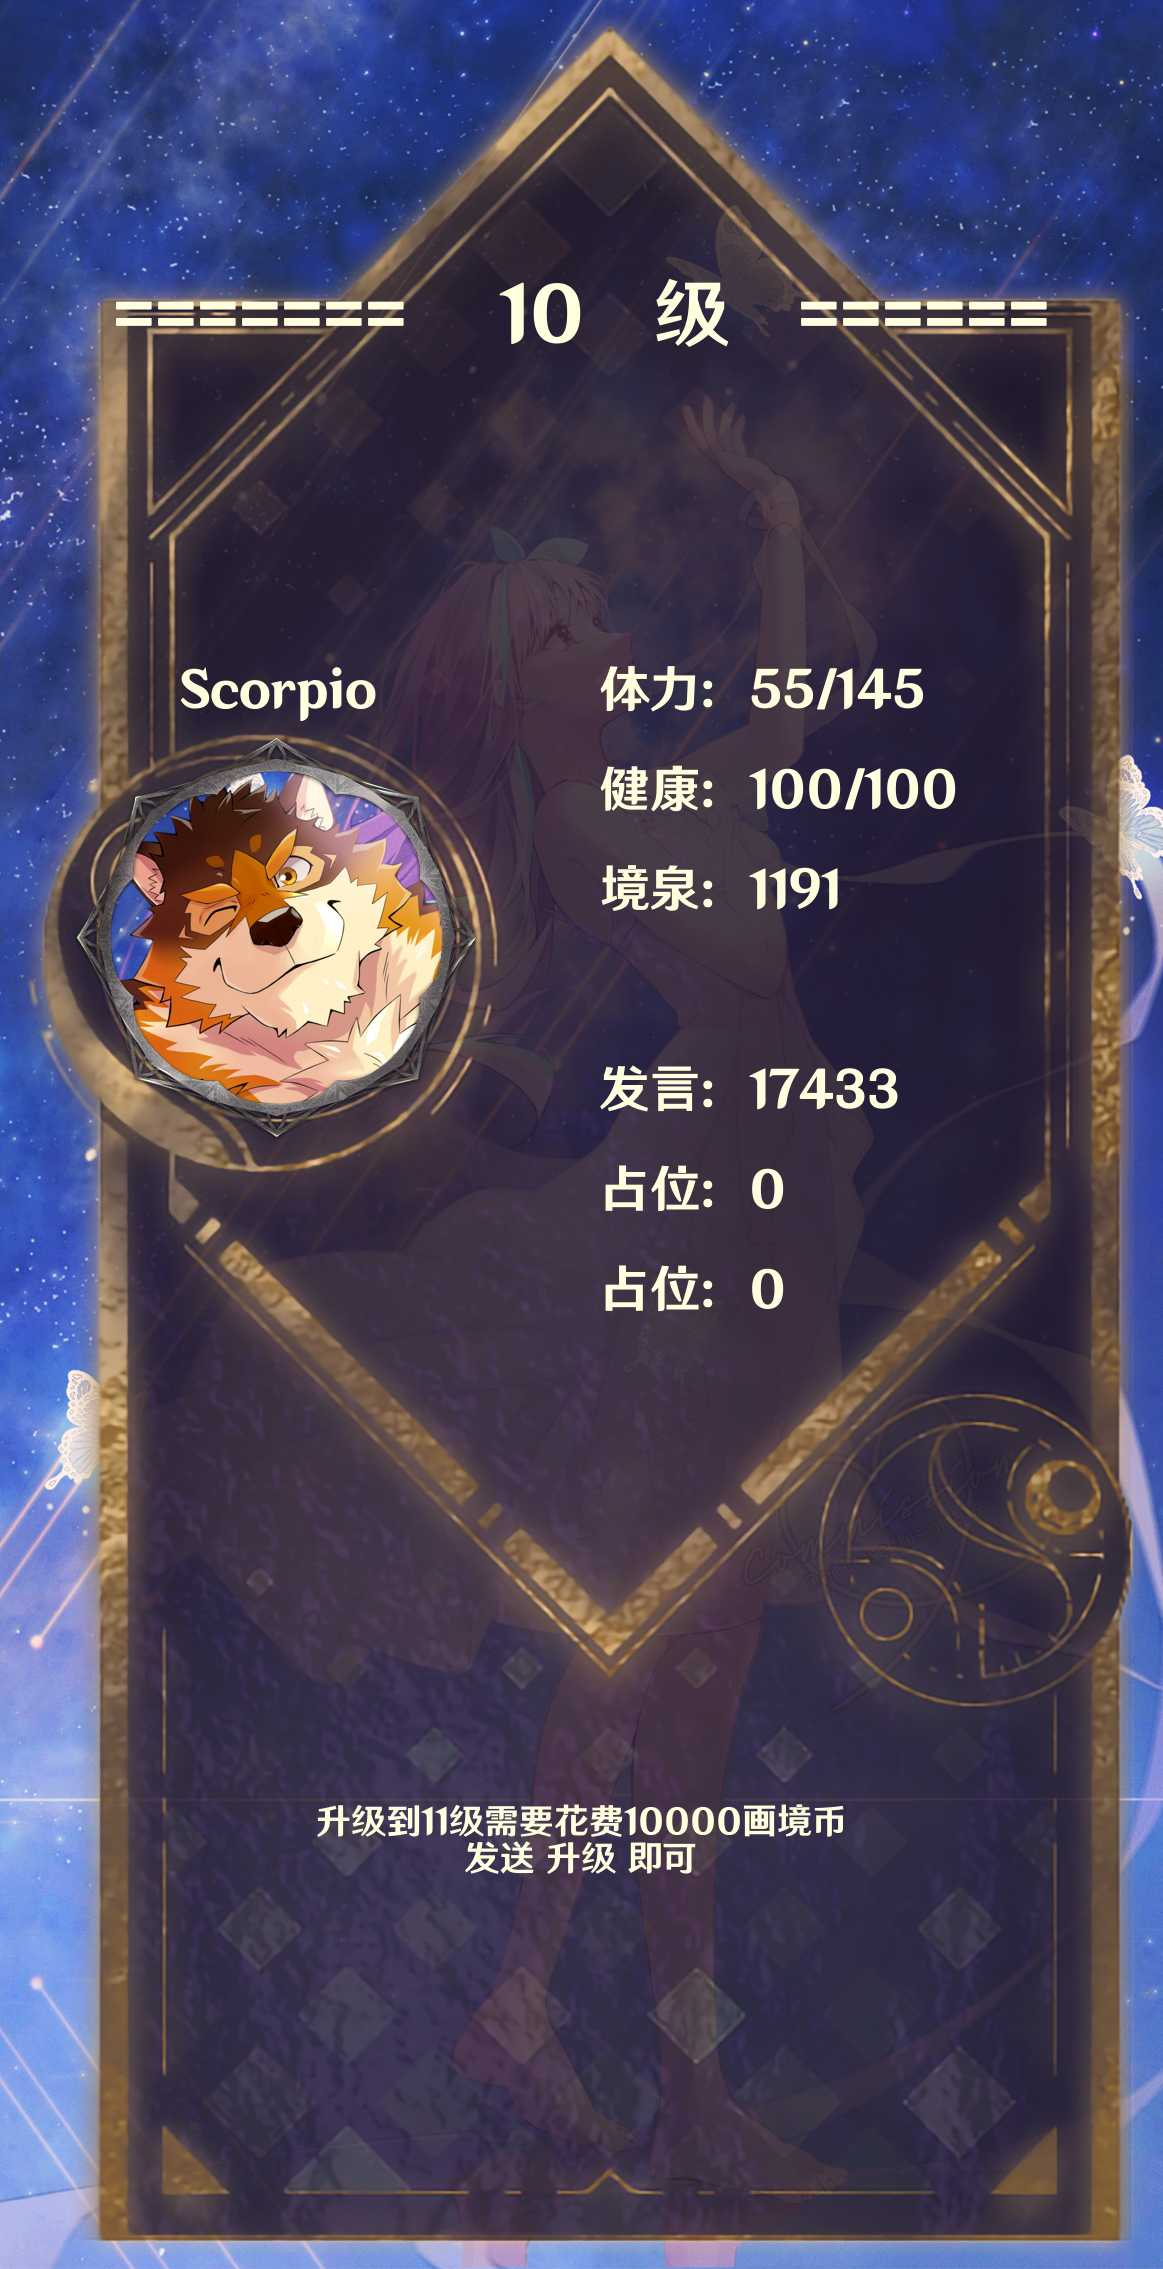
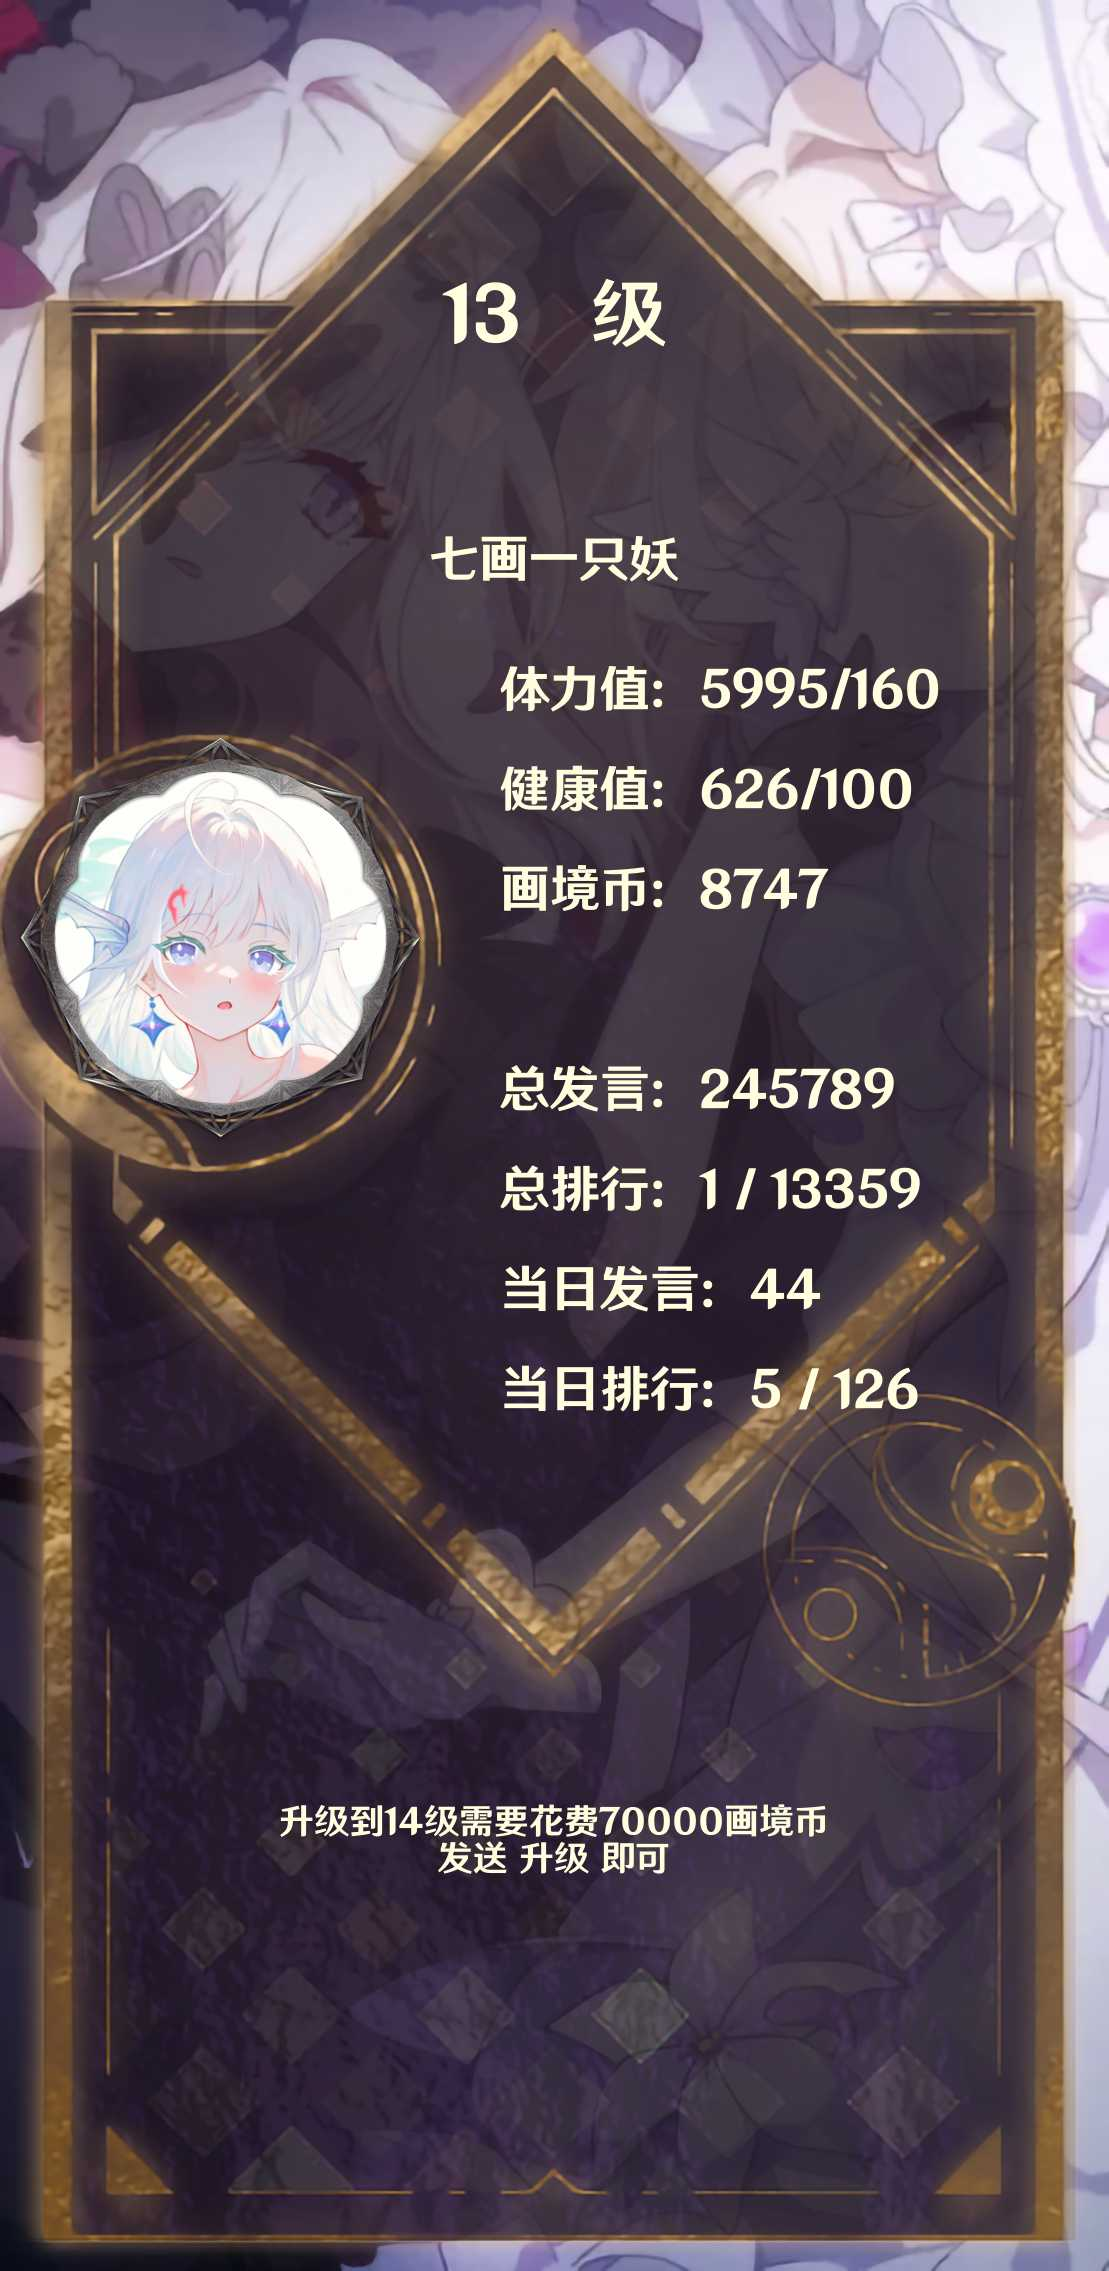
统计新增每日发言以及对应的个人信息查询，修复万象抽卡没反应问题

diff --git a/Twip/function/show_speak_rank/db.py b/Twip/function/show_speak_rank/db.py
@@ -2,11 +2,12 @@
 Author: 七画一只妖
 Date: 2022-03-01 20:27:54
 LastEditors: 七画一只妖 1157529280@qq.com
-LastEditTime: 2023-08-29 14:09:10
+LastEditTime: 2023-09-22 19:53:28
 Description: file content
 '''
 
 import base64
+import datetime
 from io import BytesIO
 import time
 from Twip import DB_URL, DB_CARD, DB_PASS, DB_LIB, TTF_PATH
@@ -34,6 +35,7 @@ def find_speak_rank() -> list:
     cursor = db.cursor()
     cursor.execute(sql)
     results = cursor.fetchall()
+    db.close()
     return results
 
 
@@ -64,7 +66,7 @@ def data_to_image(data,type:str) -> str:
     bg = Image.new("RGB",(650,5000), (255,255,255))
     dr = ImageDraw.Draw(bg)
     font = ImageFont.truetype(f"{FILE_PATH}\\consola-1.ttf", 20)
-    dr.text((10,100), text=text1, font=font, fill="#000000")
+    dr.text((10,200), text=text1, font=font, fill="#000000")
     ################################################
     text2 = ""
     rank = 1
@@ -81,10 +83,72 @@ def data_to_image(data,type:str) -> str:
         rank += 1
     dr = ImageDraw.Draw(bg)
     font = ImageFont.truetype(TTF_PATH, 19)
-    dr.text((275,100), text=text2, font=font, fill="#000000")
+    dr.text((275,200), text=text2, font=font, fill="#000000")
     ################################################
     text3 = f"当前时间：{now_time}\n\n"
     text4 = f"统计时长：{time_difference}\n\n"
+    dr = ImageDraw.Draw(bg)
+    font = ImageFont.truetype(TTF_PATH, 19)
+    # 将text3和text4居中
+    text_width3 = font.getsize(text=text3)
+    text_width4 = font.getsize(text=text4)
+    text_width5 = font.getsize(text="By  Twip  七画一只妖")
+    
+    dr.text(((650-text_width3[0])/2,20), text=text3, font=font, fill="#000000")
+    dr.text(((650-text_width4[0])/2,20+text_width3[1]), text=text4, font=font, fill="#000000")
+    dr.text(((650-text_width5[0])/2,20+text_width3[1]+text_width4[1]), text="By  Twip  七画一只妖", font=font, fill="#000000")
+
+    font = ImageFont.truetype(TTF_PATH, 40)
+    text_width6 = font.getsize(text="发 言 总 排 行 榜")
+    dr.text(((650-text_width6[0])/2,40+text_width3[1]+text_width4[1]+text_width5[1]), text="发 言 总 排 行 榜", font=font, fill="#000000")
+
+    # bg.show()
+    return img_to_b64(bg)
+
+
+# 获取当日发言排名
+def get_speak_rank_today(type:str):
+    now_time = datetime.datetime.now().strftime('%Y-%m-%d')
+    db = MySQLdb.connect(DB_URL, DB_CARD, DB_PASS, DB_LIB, charset='utf8')
+    sql = f"select * from t_bot_listener_speaklog where speak_time='{now_time}' order by speak_count desc limit 0,99;"
+    cursor = db.cursor()
+    cursor.execute(sql)
+    data = cursor.fetchall()
+    db.close()
+
+    ################################################
+    text1 = ""
+    rank = 1
+    for item in data:
+        # user_item = f"【{str(rank)}】{item[0]}({item[1]})的发言次数是：{item[4]}\n\n"
+        # 对齐
+        user_item = f"[{str(rank):>2}] ===> {item[4]:>6}   |\n\n"
+        text1 += user_item
+        rank += 1
+    bg = Image.new("RGB",(650,5000), (255,255,255))
+    dr = ImageDraw.Draw(bg)
+    font = ImageFont.truetype(f"{FILE_PATH}\\consola-1.ttf", 20)
+    dr.text((10,200), text=text1, font=font, fill="#000000")
+    ################################################
+    text2 = ""
+    rank = 1
+    for item in data:
+        # user_item = f"【{str(rank)}】{item[0]}({item[1]})的发言次数是：{item[4]}\n\n"
+        # 对齐
+        # item[1]是一个字符串，将这个字符串的开头两个字符和结尾两个字符换成*号
+        if type == "admin":
+            user_item = f"{item[2]} ( {item[1]} ) \n\n"
+        else:
+            user_item = f"{item[2]} ( {item[1][:4]}{'*'*(len(item[1])-4)} ) \n\n"
+        # user_item = f"{item[0]} ( {item[1]} ) \n\n"
+        text2 += user_item
+        rank += 1
+    dr = ImageDraw.Draw(bg)
+    font = ImageFont.truetype(TTF_PATH, 19)
+    dr.text((275,200), text=text2, font=font, fill="#000000")
+    ################################################
+    text3 = f"当前时间：{now_time}\n\n"
+    text4 = f"统计时长：今天0点到目前为止\n\n"
     dr = ImageDraw.Draw(bg)
     font = ImageFont.truetype(TTF_PATH, 19)
     # 将text3和text4居中
@@ -95,8 +159,13 @@ def data_to_image(data,type:str) -> str:
     dr.text(((650-text_width4[0])/2,20+text_width3[1]), text=text4, font=font, fill="#000000")
     dr.text(((650-text_width5[0])/2,20+text_width3[1]+text_width4[1]), text="By  Twip  七画一只妖", font=font, fill="#000000")
 
+    font = ImageFont.truetype(TTF_PATH, 40)
+    text_width6 = font.getsize(text="当 日 发 言 排 行 榜")
+    dr.text(((650-text_width6[0])/2,40+text_width3[1]+text_width4[1]+text_width5[1]), text="当 日 发 言 排 行 榜", font=font, fill="#000000")
+
     # bg.show()
     return img_to_b64(bg)
+    
 
 
 def img_to_b64(pic: Image.Image) -> str:

diff --git a/Twip/user/user_info/payload/image_dao.py b/Twip/user/user_info/payload/image_dao.py
@@ -2,7 +2,7 @@
 Author: 七画一只妖 1157529280@qq.com
 Date: 2023-09-08 21:27:33
 LastEditors: 七画一只妖 1157529280@qq.com
-LastEditTime: 2023-09-09 14:27:25
+LastEditTime: 2023-09-22 20:40:08
 FilePath: \074个人信息卡片\payload\image_dao.py
 Description: 这是默认设置,请设置`customMade`, 打开koroFileHeader查看配置 进行设置: https://github.com/OBKoro1/koro1FileHeader/wiki/%E9%85%8D%E7%BD%AE
 '''
@@ -14,6 +14,7 @@ LastEditTime: 2023-09-08 21:31:07
 FilePath: \074个人信息卡片\image_dao.py
 Description: 这是默认设置,请设置`customMade`, 打开koroFileHeader查看配置 进行设置: https://github.com/OBKoro1/koro1FileHeader/wiki/%E9%85%8D%E7%BD%AE
 '''
+import datetime
 import random
 import httpx
 from PIL import Image
@@ -21,6 +22,7 @@ from pathlib import Path
 BASE_PATH: str = Path(__file__).absolute().parents[0]
 
 from .image_factory import picture_paste_img, circle, write_longsh, FontEntity
+from .db import sql_dml, sql_dql
 
 from tool.find_power.user_database import get_user_info_new, insert_user_info_new, change_user_crime, change_coin_max, get_user_info_old
 
@@ -68,14 +70,17 @@ async def get_card(user_id: str, user_name: str) -> str:
     f_a.setSize(75).setColor("#FFFFE0")
     resp1 = write_longsh(f_a, img2, f"{level:<5}级", "C", (270, 0))
 
-    resp2 = write_longsh(f_a.setSize(50), resp1, f"{user_name}", "L", (180, 660))
+    resp2 = write_longsh(f_a.setSize(50), resp1, f"{user_name}", "C", (530, 480))
 
-    resp2 = write_longsh(f_a, resp1, f"体力值： {user_data[1]}/{user_data[4]}", "L", (550, 660))
-    resp2 = write_longsh(f_a, resp1, f"健康值： {user_data[2]}/100", "L", (550, 760))
-    resp2 = write_longsh(f_a, resp1, f"画境币： {user_data[3]}", "L", (550, 860))
-    resp2 = write_longsh(f_a, resp1, f"发言数： {user_data_old[4]}", "L", (550, 1060))
-    resp2 = write_longsh(f_a, resp1, f"占位符： 0", "L", (550, 1160))
-    resp2 = write_longsh(f_a, resp1, f"占位符： 0", "L", (550, 1260))
+    resp2 = write_longsh(f_a, resp1, f"体力值： {user_data[1]}/{user_data[4]}", "L", (500, 660))
+    resp2 = write_longsh(f_a, resp1, f"健康值： {user_data[2]}/100", "L", (500, 760))
+    resp2 = write_longsh(f_a, resp1, f"画境币： {user_data[3]}", "L", (500, 860))
+    resp2 = write_longsh(f_a, resp1, f"总发言： {user_data_old[4]}", "L", (500, 1060))
+
+    rank_data = await get_speak_info(user_id=user_id)
+    resp2 = write_longsh(f_a, resp1, f"总排行： {rank_data[0]}", "L", (500, 1160))
+    resp2 = write_longsh(f_a, resp1, f"当日发言： {rank_data[2]}", "L", (500, 1260))
+    resp2 = write_longsh(f_a, resp1, f"当日排行： {rank_data[1]}", "L", (500, 1360))
 
     level_txt1 = f"升级到{level_data['now_level']+1}级需要花费{level_data['level_up']}画境币\n发送 升级 即可"
 
@@ -86,6 +91,29 @@ async def get_card(user_id: str, user_name: str) -> str:
     s_path = f"""{BASE_PATH}\\cache\\resp_{user_id[0]}.jpg"""
     resp2.save(s_path, optimize=True, quality=50)
     return str(s_path)
+
+
+# 获取发言排行信息
+async def get_speak_info(user_id:str) -> list[str]:
+    now_time = datetime.datetime.now().strftime('%Y-%m-%d')
+    sql = " select * from ("
+    sql += " SELECT user_id, speak_time_total,"
+    sql += "     RANK() OVER (ORDER BY speak_time_total DESC) AS message_rank,"
+    sql += "     (SELECT COUNT(*) FROM user_info) AS total_users"
+    sql += " FROM user_info ) as tt WHERE tt.user_id = '%s';"
+
+    sql2 = " select user_id, speak_count, message_rank, total_users from ("
+    sql2 += " SELECT user_id, speak_count, speak_time, "
+    sql2 += "     RANK() OVER (ORDER BY speak_count DESC) AS message_rank,"
+    sql2 += "     (SELECT COUNT(*) FROM t_bot_listener_speaklog) AS total_users"
+    sql2 += " FROM t_bot_listener_speaklog ) as tt WHERE tt.user_id = '%s' and tt.speak_time = '%s';"
+
+    data = sql_dql(sql % user_id)
+    data2 = sql_dql(sql2 % (user_id, now_time))
+
+    print(data)
+
+    return [f"{data[0][2]} / {data[0][3]}",f"{data2[0][2]} / {data2[0][3]}",f"{data2[0][1]}"]
 
 
 # 根据当前行动点上限查找下一级上限

diff --git a/Twip/listener/auto_update_user_info/database.py b/Twip/listener/auto_update_user_info/database.py
@@ -2,12 +2,13 @@
 Author: 七画一只妖
 Date: 2022-01-22 21:42:16
 LastEditors: 七画一只妖 1157529280@qq.com
-LastEditTime: 2023-04-21 10:29:48
+LastEditTime: 2023-09-22 19:45:30
 Description: file content
 '''
 import MySQLdb
 import datetime
 import re
+import uuid
 
 from Twip import DB_URL, DB_CARD, DB_PASS, DB_LIB
 
@@ -82,5 +83,33 @@ def start(user_name: str, user_id: str) -> None:
         else:
             change_speak_total(user_id=user_id)
     else:
-        insert_new_user(user_name=user_name,
-                        user_id=user_id, now_time=now_time)
+        try:
+            insert_new_user(user_name=user_name,user_id=user_id, now_time=now_time)
+        except:
+            insert_new_user(user_name=user_id,user_id=user_id, now_time=now_time)
+
+
+
+    # 记录每日发言 t_bot_listener_speaklog
+    cursor = db.cursor()
+    sql = "SELECT * FROM t_bot_listener_speaklog WHERE user_id=%s and speak_time=%s;"
+    cursor.execute(sql, (user_id, now_time))
+    results = cursor.fetchall()
+    if results == ():
+        sql = "INSERT INTO t_bot_listener_speaklog(id, user_id, user_name, speak_time, speak_count) VALUES (%s, %s, %s, %s, %s);"
+        try:
+            cursor.execute(sql, (uuid.uuid1(), user_id, user_name, now_time, 1))
+        except:
+            cursor.execute(sql, (uuid.uuid1(), user_id, get_real_name(user_name), now_time, 1))
+        db.commit()
+    else:
+        sql = "UPDATE t_bot_listener_speaklog SET speak_count=speak_count+1 WHERE user_id=%s and speak_time=%s;"
+        cursor.execute(sql, (user_id, now_time))
+        db.commit()
+
+
+# 获取处理后的昵称
+def get_real_name(user_name:str) -> str:
+    user_name = re.findall(r'[\u4e00-\u9fa5]', user_name) # 使用通配符只匹配汉字
+    user_name = "".join(user_name)
+    return user_name

diff --git a/Twip/function/show_speak_rank/__init__.py b/Twip/function/show_speak_rank/__init__.py
@@ -2,7 +2,7 @@
 Author: 七画一只妖
 Date: 2022-03-01 20:27:45
 LastEditors: 七画一只妖 1157529280@qq.com
-LastEditTime: 2023-08-29 14:23:36
+LastEditTime: 2023-09-22 19:23:07
 Description: file content
 '''
 from nonebot import on_command
@@ -34,6 +34,18 @@ show_rank_admin = on_command("查看水群排行-开发者模式", block=True, p
     'pm_priority': 2
 })
 
+show_rank_today = on_command("查看今日水群排行", block=True, priority=2, state={
+    'pm_usage': '**查看今日水群排行',
+    'pm_describe': '查看所有群今天的水群前99名',
+    'pm_priority': 2
+})
+
+show_rank_today_admin = on_command("查看今日水群排行-开发者模式", block=True, priority=2, state={
+    'pm_usage': '**查看今日水群排行-开发者模式',
+    'pm_describe': '查看所有群今天的水群前99名，显示完整QQ号',
+    'pm_priority': 2
+})
+
 
 @show_rank.handle()
 @is_level_A
@@ -47,5 +59,19 @@ async def _(bot:Bot,event: GroupMessageEvent):
     if event.user_id not in SUPERUSERS:
         return
     re = data_to_image(find_speak_rank(),"admin")
-    await show_rank.send(MessageSegment.image(re))
+    await show_rank_admin.send(MessageSegment.image(re))
     
+
+@show_rank_today.handle()
+@is_level_A
+async def _(bot:Bot,event: GroupMessageEvent, cost=10):
+    re = get_speak_rank_today("user")
+    await show_rank_today.send(MessageSegment.image(re))
+
+
+@show_rank_today_admin.handle()
+async def _(bot:Bot,event: GroupMessageEvent):
+    if event.user_id not in SUPERUSERS:
+        return
+    re = get_speak_rank_today("admin")
+    await show_rank_today_admin.send(MessageSegment.image(re))

diff --git a/Twip/user/user_info/payload/db.py b/Twip/user/user_info/payload/db.py
@@ -1,0 +1,38 @@
+'''
+Author: 七画一只妖 1157529280@qq.com
+Date: 2022-08-30 11:27:11
+LastEditors: 七画一只妖 1157529280@qq.com
+LastEditTime: 2023-08-29 09:26:30
+FilePath: \QQbot-Twip-v2\Twip\speaker\key_word\db.py
+Description: 这是默认设置,请设置`customMade`, 打开koroFileHeader查看配置 进行设置: https://github.com/OBKoro1/koro1FileHeader/wiki/%E9%85%8D%E7%BD%AE
+'''
+import MySQLdb
+
+from Twip import DB_URL, DB_CARD, DB_PASS, DB_LIB
+# 数据库封装
+# 把数据库的操作函数都封装到一个函数里面，避免麻烦
+def sql_dql(sql):
+    db = MySQLdb.connect(DB_URL, DB_CARD, DB_PASS, DB_LIB, charset='utf8')
+    cursor = db.cursor()
+    try:
+        cursor.execute(sql)
+        result = cursor.fetchall()
+        db.close()
+        return result
+    except:
+        return {}
+
+
+def sql_dml(sql):
+    db = MySQLdb.connect(DB_URL, DB_CARD, DB_PASS, DB_LIB, charset='utf8')
+    cursor = db.cursor()
+    try:
+        cursor.execute(sql)
+        res=cursor.fetchone()
+        db.commit()
+        db.close()
+        return res
+    except:
+        db.rollback()
+        db.close()
+        return 0

diff --git a/Twip/__init__.py b/Twip/__init__.py
@@ -2,7 +2,7 @@
 Author: 七画一只妖 1157529280@qq.com
 Date: 2022-10-09 13:27:39
 LastEditors: 七画一只妖 1157529280@qq.com
-LastEditTime: 2023-09-08 23:40:34
+LastEditTime: 2023-09-22 20:24:43
 '''
 from pathlib import Path
 from typing import List
@@ -111,13 +111,13 @@ async def shutdown():
 
 # 加载来自商店的模块
 # load_plugins(str(Path(__file__).parent / 'plugins'))
-load_plugins("Twip/plugins")
+# load_plugins("Twip/plugins")
 # load_plugins("Twip/bean")
 
 # 加载自己写的模块
-load_plugins("Twip/admin")
-load_plugins("Twip/function")
+# load_plugins("Twip/admin")
+# load_plugins("Twip/function")
 load_plugins("Twip/user")
 load_plugins("Twip/listener")
-load_plugins("Twip/speaker")
-load_plugins("Twip/help")
+# load_plugins("Twip/speaker")
+# load_plugins("Twip/help")

diff --git a/Twip/function/sdorica_draw/get_image.py b/Twip/function/sdorica_draw/get_image.py
@@ -14,8 +14,8 @@ from PIL import Image, ImageDraw, ImageFont
 from Twip import ABSOLUTE_PATH, TTF_PATH
 
 
-FILE_PATH = ABSOLUTE_PATH + "\\function\\sdorica_draw"
-ICON_PATH = ABSOLUTE_PATH + "\\function\\sdorica_draw\\char"
+FILE_PATH = str(ABSOLUTE_PATH) + "\\function\\sdorica_draw"
+ICON_PATH = str(ABSOLUTE_PATH) + "\\function\\sdorica_draw\\char"
 
 
 char_rare_data = {
